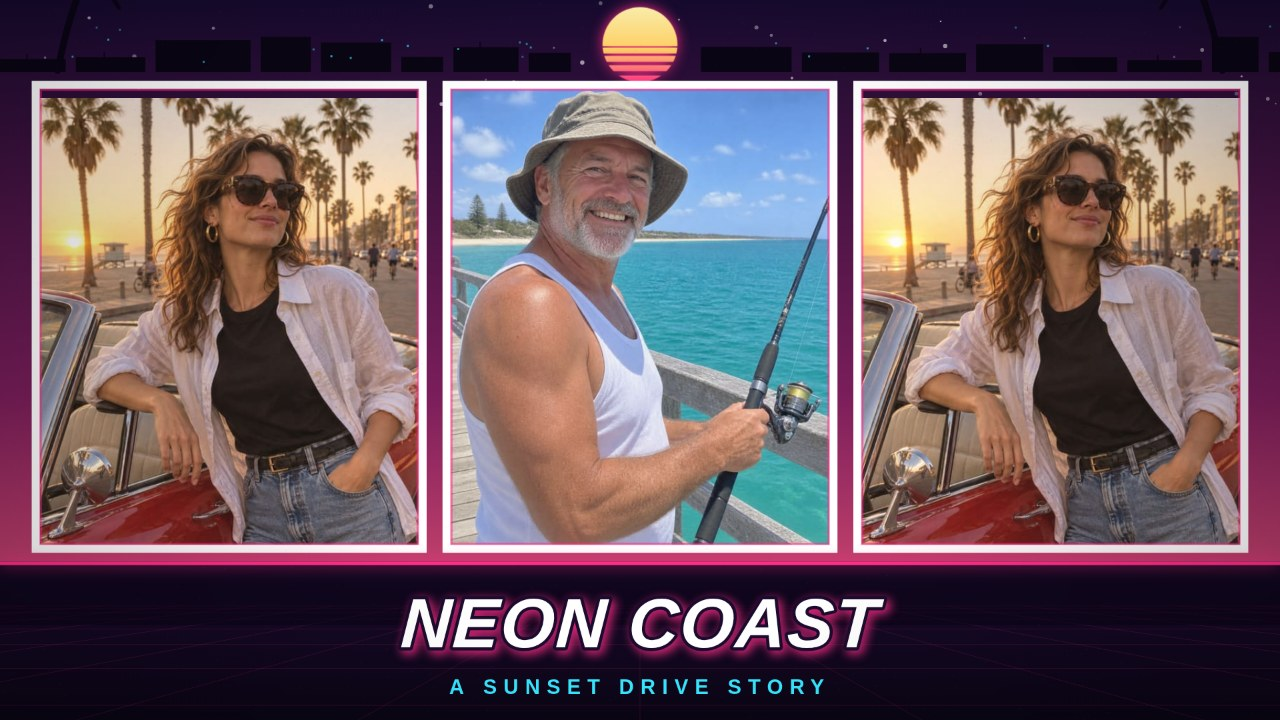
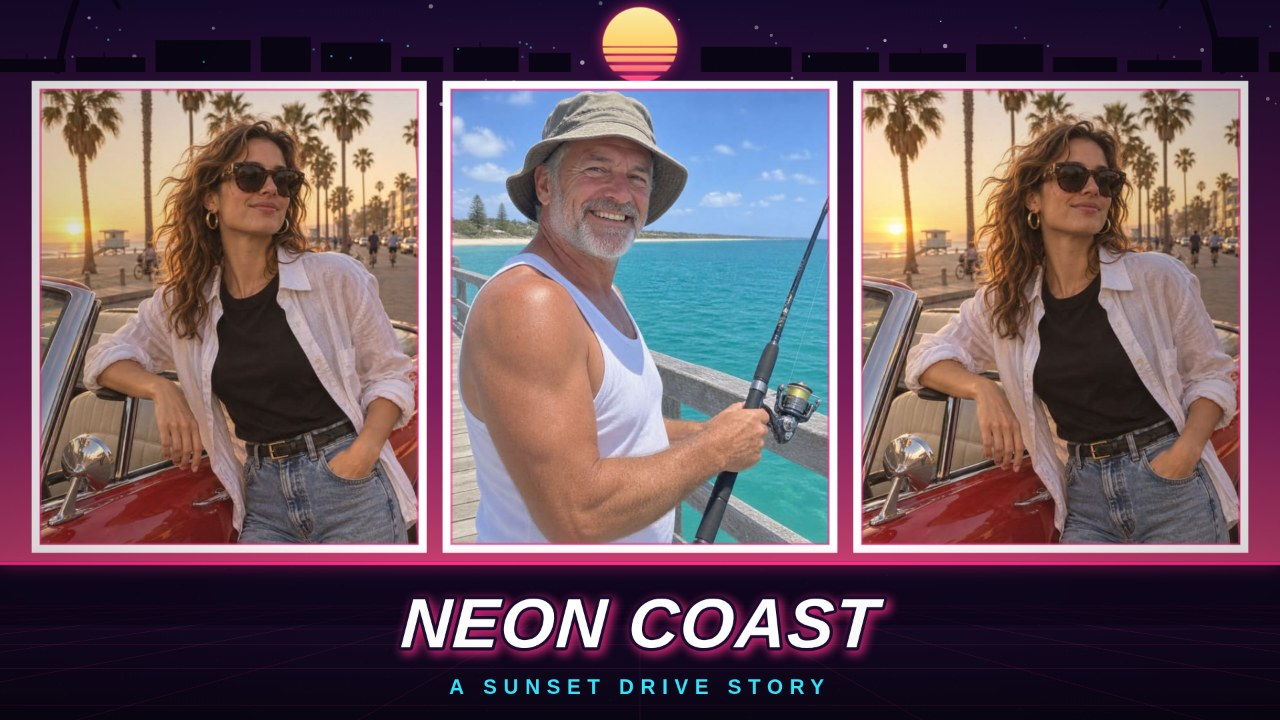
Review fixes: clamp panel pan to cover, shrink long subtitles, keep shot-cover aspect

Changed region(s): [[0.6562, 0.1222, 0.9688, 0.7639], [0.0312, 0.1222, 0.3438, 0.7639]]

diff --git a/app/src/main.js b/app/src/main.js
@@ -4,7 +4,7 @@
 // lets each panel be cropped and positioned, edits the caption, and exports
 // the cover as a real PNG in 1080 x 1080, 1080 x 1350 or 1920 x 1080.
 // A `?shot=` query sets up a fixed scene for a screenshot (./shots.js).
-import { drawCoverArt, panelRectsOnCanvas, blankPanel, blankState, LAYOUTS, THEMES, SIZES } from './cover.js';
+import { drawCoverArt, panelRectsOnCanvas, panLimits, blankPanel, blankState, LAYOUTS, THEMES, SIZES } from './cover.js';
 import { runShot } from './shots.js';
 
 const canvas = document.getElementById('cover');
@@ -76,7 +76,11 @@ function setPhotoIntoPanel(fileOrUrl, index, done) {
   if (typeof fileOrUrl === 'string') {
     loadImage(fileOrUrl).then(apply, () => setStatus('That sample could not be loaded.'));
   } else {
-    loadImage(URL.createObjectURL(fileOrUrl)).then(apply, () => setStatus('That file is not a readable image.'));
+    const url = URL.createObjectURL(fileOrUrl);
+    loadImage(url).then(
+      (img) => { URL.revokeObjectURL(url); apply(img); },
+      () => { URL.revokeObjectURL(url); setStatus('That file is not a readable image.'); },
+    );
   }
 }
 
@@ -92,7 +96,11 @@ function fillAllPanels(fileOrUrl) {
   if (typeof fileOrUrl === 'string') {
     loadImage(fileOrUrl).then(apply, () => setStatus('That sample could not be loaded.'));
   } else {
-    loadImage(URL.createObjectURL(fileOrUrl)).then(apply, () => setStatus('That file is not a readable image.'));
+    const url = URL.createObjectURL(fileOrUrl);
+    loadImage(url).then(
+      (img) => { URL.revokeObjectURL(url); apply(img); },
+      () => { URL.revokeObjectURL(url); setStatus('That file is not a readable image.'); },
+    );
   }
 }
 
@@ -189,7 +197,7 @@ canvas.addEventListener('pointerdown', (e) => {
   const hit = panelAt(p);
   if (hit < 0) return;
   selected = hit;
-  canvas.setPointerCapture(e.pointerId);
+  try { canvas.setPointerCapture(e.pointerId); } catch { /* drag still works without capture */ }
   dragging = { x: p.x, y: p.y, ox: state.panels[hit].ox, oy: state.panels[hit].oy };
   redraw();
 });
@@ -201,8 +209,15 @@ canvas.addEventListener('pointermove', (e) => {
   const panel = state.panels[selected];
   panel.ox = dragging.ox + (p.x - dragging.x) / rc.w;
   panel.oy = dragging.oy + (p.y - dragging.y) / rc.h;
-  panel.ox = Math.max(-1, Math.min(1, panel.ox));
-  panel.oy = Math.max(-1, Math.min(1, panel.oy));
+  // Stop the drag where the photo would stop covering the panel.
+  if (panel.img) {
+    const lim = panLimits(panel.img, rc, panel);
+    panel.ox = Math.max(-lim.ox, Math.min(lim.ox, panel.ox));
+    panel.oy = Math.max(-lim.oy, Math.min(lim.oy, panel.oy));
+  } else {
+    panel.ox = Math.max(-1, Math.min(1, panel.ox));
+    panel.oy = Math.max(-1, Math.min(1, panel.oy));
+  }
   redraw();
 });
 canvas.addEventListener('pointerup', () => { dragging = null; });

diff --git a/app/src/cover.js b/app/src/cover.js
@@ -253,17 +253,37 @@ function drawNeonGrid(ctx, w, topY, h, theme) {
   ctx.restore();
 }
 
-function drawPhoto(ctx, img, rect, panel) {
+// Largest pan (in panel fractions) that still keeps the photo covering the
+// panel: any further and the sky behind the photo would show through.
+// For `contain` the photo is smaller than the panel, so it stays centred.
+export function panLimits(img, rect, panel) {
   const iw = img.naturalWidth;
   const ih = img.naturalHeight;
+  if (!iw || !ih) return { ox: 0, oy: 0, scale: 1 };
   let scale = panel.fit === 'contain'
     ? Math.min(rect.w / iw, rect.h / ih)
     : Math.max(rect.w / iw, rect.h / ih);
   scale *= panel.zoom;
+  return {
+    ox: Math.max(0, (iw * scale - rect.w) / (2 * rect.w)),
+    oy: Math.max(0, (ih * scale - rect.h) / (2 * rect.h)),
+    scale,
+  };
+}
+
+function drawPhoto(ctx, img, rect, panel) {
+  const iw = img.naturalWidth;
+  const ih = img.naturalHeight;
+  const lim = panLimits(img, rect, panel);
+  const scale = lim.scale;
   const dw = iw * scale;
   const dh = ih * scale;
-  const cx = rect.x + rect.w / 2 + panel.ox * rect.w;
-  const cy = rect.y + rect.h / 2 + panel.oy * rect.h;
+  // Clamp the pan at draw time too, so a stored offset from an older
+  // version (or a shot scene) can never leave a gap at a panel edge.
+  const ox = Math.max(-lim.ox, Math.min(lim.ox, panel.ox));
+  const oy = Math.max(-lim.oy, Math.min(lim.oy, panel.oy));
+  const cx = rect.x + rect.w / 2 + ox * rect.w;
+  const cy = rect.y + rect.h / 2 + oy * rect.h;
   ctx.save();
   ctx.beginPath();
   ctx.rect(rect.x, rect.y, rect.w, rect.h);
@@ -339,9 +359,18 @@ function drawTitleBlock(ctx, w, bandY, bandH, state, theme) {
     ctx.restore();
   }
   if (subtitle) {
-    const subSize = Math.max(12, bandH * 0.13);
-    ctx.font = `700 ${subSize}px Arial, sans-serif`;
-    try { ctx.letterSpacing = `${Math.round(subSize * 0.32)}px`; } catch { /* older canvas */ }
+    // Shrink the subtitle (font and tracking together) until it fits,
+    // so a long subtitle is never chopped at the cover's edges.
+    let subSize = Math.max(12, bandH * 0.13);
+    const setSubFont = (s) => {
+      ctx.font = `700 ${s}px Arial, sans-serif`;
+      try { ctx.letterSpacing = `${Math.round(s * 0.32)}px`; } catch { /* older canvas */ }
+    };
+    setSubFont(subSize);
+    while (ctx.measureText(subtitle).width > w * 0.92 && subSize > 10) {
+      subSize -= 1;
+      setSubFont(subSize);
+    }
     ctx.fillStyle = theme.subtitle;
     ctx.fillText(subtitle, cx, bandY + bandH * 0.8);
   }

diff --git a/app/style.css b/app/style.css
@@ -31,8 +31,8 @@ button.primary { width: 100%; padding: 12px; font-size: 16px; background: linear
 #cover:active { cursor: grabbing; }
 body.shot-cover .top, body.shot-cover .controls { display: none; }
 body.shot-cover .app { padding: 0; }
-body.shot-cover .stage { display: block; }
-body.shot-cover #cover { width: 100vw; height: 100vh; max-height: none; border-radius: 0; box-shadow: none; }
+body.shot-cover .stage { display: flex; align-items: center; justify-content: center; }
+body.shot-cover #cover { width: auto; height: auto; max-width: 100vw; max-height: 100vh; margin: auto; border-radius: 0; box-shadow: none; }
 @media (max-width: 900px) {
   .app { flex-direction: column; }
   .controls { width: 100%; }
